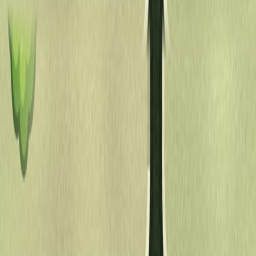
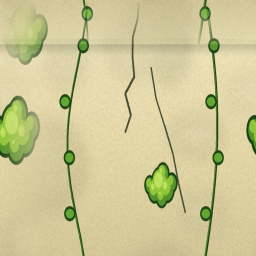
Refactor wall asset handling and update gameplay documentation for Diamond Rush.
This commit replaces the `angkor_wall_front.jpg` asset with `angkor_wall_top_view.jpg`, updating the gameplay pipeline documentation to reflect the new wall rendering conventions. Adjustments to asset processing scripts ensure compatibility with the new top-view wall assets, enhancing the visual representation of walls in the game. Additionally, the documentation clarifies the oblique hybrid wall behavior and sorting orders for improved gameplay experience.

diff --git a/Assets/Scripts/Gameplay/GridBoard.cs b/Assets/Scripts/Gameplay/GridBoard.cs
@@ -372,7 +372,7 @@ public class GridBoard : MonoBehaviour
         return IsOpen(x + 1, y) || IsOpen(x - 1, y) || IsOpen(x, y + 1) || IsOpen(x, y - 1);
     }
 
-    // Oblique hybrid: floor to the south (toward camera) gets the full front face; floor to the north gets cap only.
+    // Oblique hybrid: player approaches from bottom — vertical walls read as one-cell **top caps** (no tall front face).
     void SpawnWall(int x, int y, Vector3 position)
     {
         if (HasCardinalOpen(x, y))
@@ -382,23 +382,26 @@ public class GridBoard : MonoBehaviour
             var openEast = IsOpen(x + 1, y);
             var openWest = IsOpen(x - 1, y);
 
-            if (openNorth && !openSouth && !openEast && !openWest)
+            var capOnlyNorth = openNorth && !openSouth && !openEast && !openWest;
+            var sprite = capOnlyNorth && wallTopSprite != null
+                ? wallTopSprite
+                : wallSprite != null ? wallSprite : wallTopSprite;
+
+            var wall = SpawnTile(capOnlyNorth ? "WallTop" : "Wall", sprite, position, WallOrder);
+            if (wall != null)
             {
-                var cap = SpawnTile("WallTop", wallTopSprite != null ? wallTopSprite : wallSprite, position, WallOrder);
-                if (cap != null)
-                    cap.flipX = (Hash(x, y) & 4) == 4;
-                return;
+                if (openWest && !openEast)
+                    wall.flipX = true;
+                else if (openEast && !openWest)
+                    wall.flipX = false;
+                else if (openEast || openWest)
+                    wall.flipX = openWest;
+                else
+                    wall.flipX = (Hash(x, y) & 4) == 4;
+
+                if (openSouth)
+                    SpawnShadow(x, y - 1);
             }
-
-            var flipX = openWest && !openEast;
-            if (!openWest && openEast)
-                flipX = false;
-            else if (!openSouth && !openNorth && (openEast || openWest))
-                flipX = openWest;
-
-            var wall = SpawnWallFront(wallSprite, position, flipX);
-            if (wall != null && openSouth)
-                SpawnShadow(x, y - 1);
 
             return;
         }
@@ -451,26 +454,6 @@ public class GridBoard : MonoBehaviour
         renderer.sprite = sprite;
         renderer.sortingOrder = order;
         GameplaySprites.FitCell(go.transform, sprite, cellSize * 1.01f);
-        return renderer;
-    }
-
-    SpriteRenderer SpawnWallFront(Sprite sprite, Vector3 cellCenter, bool flipX)
-    {
-        if (sprite == null)
-            return null;
-
-        var go = new GameObject("Wall");
-        go.transform.SetParent(tilesRoot, false);
-        var renderer = go.AddComponent<SpriteRenderer>();
-        renderer.sprite = sprite;
-        renderer.flipX = flipX;
-        renderer.sortingOrder = WallOrder;
-
-        var size = sprite.bounds.size;
-        var scale = cellSize / size.x;
-        go.transform.localScale = new Vector3(scale, scale, 1f);
-        var scaledHeight = size.y * scale;
-        go.transform.position = cellCenter + Vector3.up * (scaledHeight - cellSize) * 0.5f;
         return renderer;
     }
 

diff --git a/Assets/Editor/GameplayArtImporter.cs b/Assets/Editor/GameplayArtImporter.cs
@@ -66,9 +66,9 @@ public static class GameplayArtImporter
         new Entry("angkor_floor_tile.png", "floor_stone_alt.png", Mode.Full, 128) { inset = 0.07f, seamless = 0.12f, rotate90 = true },
         new Entry("angkor_floor_tile.png", "floor_moss.png", Mode.Full, 128) { inset = 0.03f, seamless = 0.1f },
         new Entry("dirt_soft.jpg", "dirt_soft.png", Mode.Full, 128),
-        new Entry("angkor_wall_front.jpg", "wall_block.png", Mode.Full, 128) { inset = 0.03f },
-        new Entry("angkor_wall_front.jpg", "wall_top.png", Mode.Full, 128) { inset = 0.04f, cropTop = 0.3f, seamless = 0.16f },
-        new Entry("angkor_wall_front.jpg", "jungle_fill.png", Mode.Full, 256) { inset = 0.03f, cropTop = 0.28f, cropBottom = 0.22f, seamless = 0.18f, tiled = true },
+        new Entry("angkor_wall_top_view.jpg", "wall_block.png", Mode.Full, 128) { inset = 0.04f, cropTop = 0.52f, seamless = 0.14f },
+        new Entry("angkor_wall_top_view.jpg", "wall_top.png", Mode.Full, 128) { inset = 0.04f, cropTop = 0.48f, seamless = 0.16f },
+        new Entry("angkor_wall_top_view.jpg", "jungle_fill.png", Mode.Full, 256) { inset = 0.05f, cropTop = 0.55f, seamless = 0.18f, tiled = true },
         new Entry("red_diamond.jpg", "red_diamond.png", Mode.Key, 128),
         new Entry("exit_door_closed.jpg", "exit_door_closed.png", Mode.Key, 384),
         new Entry("exit_door_open.jpg", "exit_door_open.png", Mode.Key, 384),

diff --git a/.cursor/skills/diamond-rush-mobile-ui/gameplay-pipeline.md b/.cursor/skills/diamond-rush-mobile-ui/gameplay-pipeline.md
@@ -19,7 +19,7 @@ Procedures used to build Angkor Level 1 (tunnel maze, follow camera, walk cycle)
 
 - Generate with the `GenerateImage` tool on flat **#FF00FF magenta** (use #00FF00 green when the asset contains purple). Ask for thick dark outlines, cartoon style, oblique top-down view (walls show a front face, characters stand upright).
 - Save sources as `ArtSource/Gameplay/Angkor/<name>.jpg`. Processed PNGs go to `Assets/Art/Gameplay/Angkor/`.
-- World 1 tiles: `angkor_floor_tile.png` → floors only; `angkor_wall_front.jpg` → `wall_block`, `wall_top`, `jungle_fill`. South-adjacent floor gets `wall_block` (front face, bottom-aligned); north-only adjacency gets `wall_top` cap.
+- World 1 tiles: `angkor_floor_tile.png` → floors; `angkor_wall_top_view.jpg` → walls/fill. Oblique hybrid: tunnel walls are **one-cell top caps** (`wall_block` / `wall_top`), not tall front faces.
 - **Animation sheets**: one 1024x1024 image, 2x2 grid, one direction per sheet (down, up, side facing right; left = side mirrored). Frame order TL, TR, BL, BR = contact, passing, contact, passing. Name the poses explicitly in the prompt ("wide stride", "upright passing pose") or every frame comes out mid-stride; regenerate if so.
 - Tileable textures: ask for "seamless, tileable, no border". If a dark border appears, use `inset`; if it doesn't tile, use `seamless`.
 - Screen frames (vignettes) have content in the corners, so the corner pixel is not the background. Use `KeyCenter`.
@@ -51,7 +51,7 @@ When adding an asset: add the entry in both files, add it to `docs/GAMEPLAY_ASSE
 ## 3. World rendering conventions
 
 - 1 cell = 1 world unit. Sort orders: backdrop −50, floor 0, shadows 1, dirt 2, walls 3, door 4, door slots 5, gem glow 6, gem 7, player shadow and FX 9, player 10.
-- Wall autotiling in `GridBoard` (oblique hybrid): floor **south** of stone (`y-1`) → bottom-aligned `wall_block` front face + shadow on that floor; floor **north** only → `wall_top` cap; E/W corridors → front face with `flipX`; inner mass with no cardinal floor → `wall_top` if any 8-neighbour open else tiled `jungle_fill` backdrop (board + 12 cells).
+- Wall autotiling in `GridBoard` (oblique hybrid, player from bottom): cardinal floor adjacency → one-cell `wall_block` top cap (+ shadow if floor south); north-only adjacency → `wall_top`; inner mass → `wall_top` or tiled `jungle_fill` backdrop (board + 12 cells).
 - Floor variants are picked by a stable hash (`(x*73856093 ^ y*19349663) & 0x7fffffff`): about 18% `floor_moss`, 10% `floor_cracked`, then `floor_stone`/`floor_stone_alt`. The preview uses `Math.imul` so the hashes match.
 - **Intro goal pan:** after the intro card fades, `TutorialOverlay` calls `GameplayCameraFit.PanTo(board.DoorCameraAnchor, hold)` so the locked door is visible once; input stays blocked while `IsPanning`.
 - **Interaction hints:** `InteractionHintOverlay` shows one contextual arrow (dig-adjacent dirt, or pushable boulder) until the player digs; raycasts off.

diff --git a/docs/GAMEPLAY_ASSETS.md b/docs/GAMEPLAY_ASSETS.md
@@ -29,9 +29,9 @@ Sorting orders (world sprites): floor 0, wall shadow 1, dirt 2, walls 3, door gl
 | `trap_fire.png` / `trap_spear.png` | 128×128 | procedural | Full | Fire damage; spear toggles every ~0.7 s. |
 | `checkpoint_pad.png` | 128×128 | procedural | Full | Sets respawn; backpack **RETURN** from level 7+. |
 | `dirt_soft.png` | 128×128 | `dirt_soft.jpg` | Full | Soft dirt over floor; shrinks + fades when dug. |
-| `wall_block.png` | 128×H (width-fit) | `angkor_wall_front.jpg` | Full | South-facing front (floor below): cap + face + vines; bottom-aligned, can extend above one cell. |
-| `wall_top.png` | 128×128, seamless | `angkor_wall_front.jpg` | Full | North rim / inner mass: top cap rows only (floor above wall). |
-| `jungle_fill.png` | 256×256, seamless | `angkor_wall_front.jpg` | Full, tiled | Mid brick band for deep fill (green-tinted in `GridBoard`). |
+| `wall_block.png` | 128×128, seamless | `angkor_wall_top_view.jpg` | Full | Oblique **top** of vertical wall (floor south / E–W corridors); one cell tall. |
+| `wall_top.png` | 128×128, seamless | `angkor_wall_top_view.jpg` | Full | North rim + inner mass caps. |
+| `jungle_fill.png` | 256×256, seamless | `angkor_wall_top_view.jpg` | Full, tiled | Stone + moss fill for deep solid cells. |
 
 ## Exit and pickups
 
@@ -91,6 +91,6 @@ Runtime-generated: soft radial circle (glows, shadows, bursts) and a white squar
 | --- | --- |
 | `explorer_walk_*.jpg` | Same explorer as `explorer_*.jpg` (brown fedora, tan shirt, backpack, brown boots). 2×2 grid of four walk frames, identical scale and baseline, full body, centred in each quadrant, flat magenta background, no shadows, no text. |
 | `angkor_floor_tile.png` | 1024×1024 rounded sandy floor slab with cracks and corner moss; inset + seamless → `floor_stone` / `floor_moss`. |
-| `angkor_wall_front.jpg` | 1024×1024 **front-view** wall (caps + carved face + vines). Walls/deep fill only; oblique rules in `GridBoard.SpawnWall`. |
+| `angkor_wall_top_view.jpg` | 1024×1024 oblique **top-of-wall** sheet (slab tops, vines, moss). Walls/deep fill only; one-cell caps in `GridBoard.SpawnWall`. |
 | `jungle_vignette_16x9.jpg` | 16:9 frame of jungle leaves and vines hugging all four edges, flat magenta centre filling ~80% of the image. |
 | `exit_arrow.jpg` | Chunky gold arrow pointing right with dark outline, flat magenta background. |
